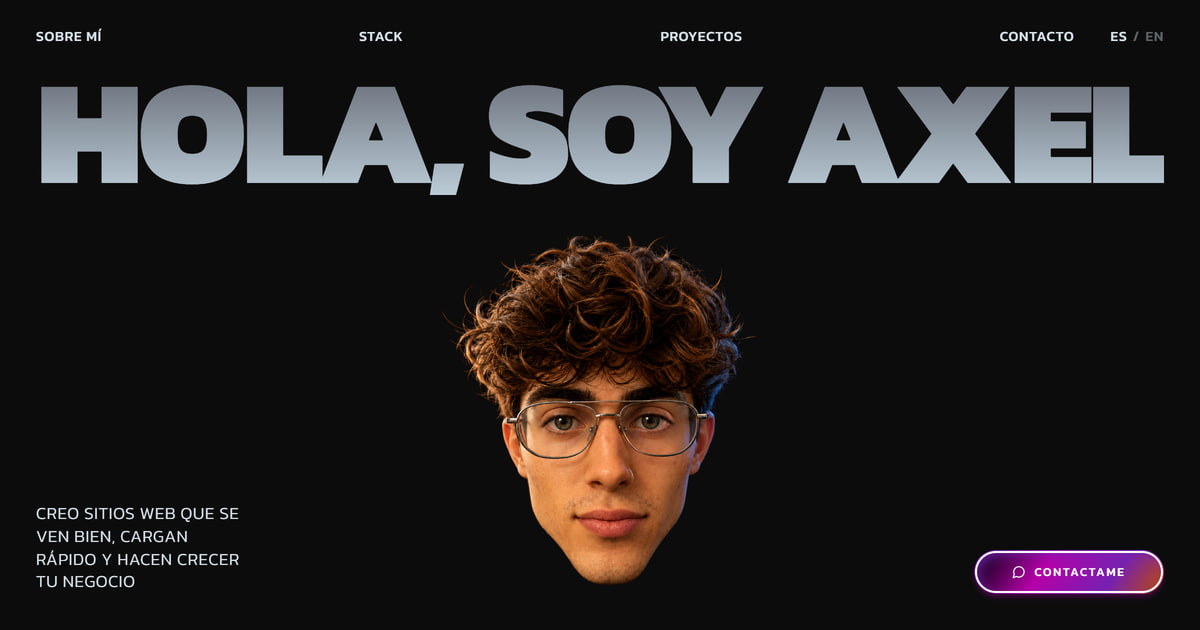
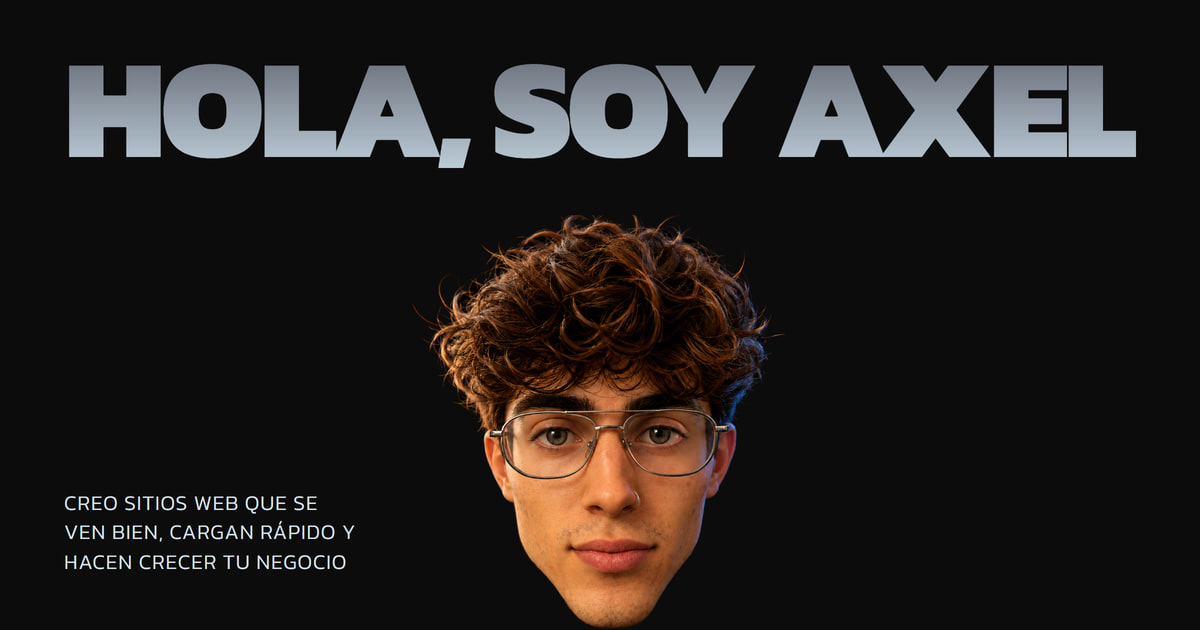
Recomponer og.jpg en apaisado en vez de recortar el hero
La preview se veia como un primer plano de la cara. El hero es vertical y el og
apaisado, asi que la version anterior recortaba y quedaba la cara sola.

Ahora make-og.js arma un lienzo aparte, inyectado sobre la pagina ya cargada para
usar la Kanit y los colores reales: titulo arriba ajustado al ancho util con el
mismo criterio que fitHeadings(), retrato al centro y tagline abajo a la izquierda.

El retrato va pegado al borde de abajo. El PNG original ya viene cortado al menton
(la ultima fila con contenido de assets/portrait-raw.png es la 1090 de 1254, no es
algo que se haya perdido al convertir), asi que anclarlo al borde hace que el corte
coincida con el del cuadro y lea como una cabeza que asoma en vez de una foto mal
recortada.

Se probaron dos composiciones contra el recorte central 1:1 que aplican WhatsApp y
LinkedIn en algunos lugares, donde solo sobrevive la banda x 285..915:

  apilado  titulo 142px a todo el ancho, retrato 378x415 centrado.
           En 1:1 se pierde el titulo pero la cara entra entera.
  lado     titulo 115px en dos lineas a la izquierda, retrato 510x560 a la derecha.
           Se ve mejor entero, pero en 1:1 parte la cara al medio.

Va la apilada: el caso principal es mandar el link por WhatsApp, donde la preview
tiende a cuadrado, y ahi media cara partida se lee como un error mientras que la
cara entera lee como un retrato intencional.

make-og.js reemplaza a make-og2.js y toma --variante, --out y --cuadrado, que
[…]

diff --git a/scripts/make-og.js b/scripts/make-og.js
@@ -1,0 +1,242 @@
+/**
+ * Genera el og.jpg (1200x630) con la composicion del hero.
+ *
+ * No es una captura del sitio recortada. El hero es vertical y el og apaisado, asi
+ * que recortarlo deja un primer plano de la cara sin titulo. Aca se recompone: se
+ * arma un lienzo aparte con la tipografia y los colores reales del sitio, que se
+ * consiguen inyectando el layout sobre la pagina ya cargada.
+ *
+ * OJO con el retrato: el PNG original ya viene cortado al menton (la ultima fila
+ * con contenido de assets/portrait-raw.png es la 1090 de 1254). No hay menton que
+ * recuperar. Por eso va pegado al borde de abajo, igual que en el sitio: asi el
+ * corte coincide con el borde del cuadro y lee como una cabeza que asoma.
+ *
+ * Dos composiciones. Importa porque LinkedIn recorta al centro en algunos lugares,
+ * y ahi solo sobrevive lo que cae dentro de los 630px centrales (x 285..915):
+ *
+ *   apilado  titulo arriba a todo el ancho, retrato al centro. Se ve mejor entero,
+ *            pero el recorte cuadrado se come el titulo.
+ *   lado     titulo a la izquierda, retrato a la derecha.
+ *
+ *   node scripts/make-og.js                          # apilado -> public/og.jpg
+ *   node scripts/make-og.js --variante=lado          # lado    -> public/og.jpg
+ *   node scripts/make-og.js --variante=lado --out=/tmp/x.jpg --cuadrado
+ *
+ * --cuadrado escribe ademas el recorte central 1:1 al lado del archivo, para ver
+ * como aguanta. Necesita el sitio en :3457.
+ */
+const puppeteer = require("puppeteer-core");
+const sharp = require("sharp");
+const path = require("path");
+
+const EDGE =
+  process.env.EDGE_PATH ||
+  "C:\\Program Files (x86)\\Microsoft\\Edge\\Application\\msedge.exe";
+const ROOT = path.resolve(__dirname, "..");
+const sleep = (ms) => new Promise((r) => setTimeout(r, ms));
+
+const arg = (n, d) => {
+  const m = process.argv.find((a) => a.startsWith(`--${n}=`));
+  return m ? m.slice(n.length + 3) : d;
+};
+const VARIANTE = arg("variante", "apilado");
+const OUT = arg("out", `${ROOT}/public/og.jpg`);
+const CUADRADO = process.argv.includes("--cuadrado");
+
+const W = 1200;
+const H = 630;
+const DPR = 2;
+
+const TITULO = "Hola, soy Axel";
+const TAGLINE =
+  "creo sitios web que se ven bien, cargan rápido y hacen crecer tu negocio";
+
+function layout({ variante, titulo, tagline, w, h }) {
+  const wrap = document.createElement("div");
+  wrap.id = "og";
+  wrap.innerHTML = `<div id="og-t" class="hero-heading"></div>
+    <img id="og-r" src="/portrait/axel-portrait.webp" alt="">
+    <p id="og-p"></p>`;
+  Object.assign(wrap.style, {
+    position: "fixed",
+    inset: "0",
+    width: w + "px",
+    height: h + "px",
+    background: "#0C0C0C",
+    zIndex: "2147483647",
+    overflow: "hidden",
+  });
+  document.body.appendChild(wrap);
+
+  const t = wrap.querySelector("#og-t");
+  const img = wrap.querySelector("#og-r");
+  const p = wrap.querySelector("#og-p");
+
+  const baseTitulo = {
+    position: "absolute",
+    fontWeight: "900",
+    textTransform: "uppercase",
+    letterSpacing: "-0.03em",
+    lineHeight: "0.86",
+  };
+  const baseTagline = {
+    position: "absolute",
+    margin: "0",
+    fontWeight: "300",
+    textTransform: "uppercase",
+    letterSpacing: "0.04em",
+    lineHeight: "1.4",
+    color: "#D7E2EA",
+  };
+  const baseImg = {
+    position: "absolute",
+    bottom: "0px", // el menton cortado coincide con el borde
+    width: "auto",
+    display: "block",
+  };
+
+  // Agranda hasta llenar el ancho util, como fitHeadings().
+  const ajustar = (el, disponible) => {
+    let size = 220;
+    el.style.fontSize = size + "px";
+    for (let i = 0; i < 6; i++) {
+      let ancho = 0;
+      for (const linea of el.children.length ? [...el.children] : [el]) {
+        const r = document.createRange();
+        r.selectNodeContents(linea);
+        ancho = Math.max(ancho, r.getBoundingClientRect().width);
+      }
+      if (!ancho) break;
+      size = size * (disponible / ancho);
+      el.style.fontSize = size.toFixed(2) + "px";
+    }
+    return size;
+  };
+
+  if (variante === "lado") {
+    // Titulo en dos lineas sobre la mitad izquierda, retrato a la derecha.
+    t.innerHTML = `<div>Hola,</div><div>soy Axel</div>`;
+    Object.assign(t.style, baseTitulo, {
+      left: "64px",
+      top: "96px",
+      width: "520px",
+      textAlign: "left",
+      whiteSpace: "nowrap",
+    });
+    ajustar(t, 520);
+
+    Object.assign(p.style, baseTagline, {
+      left: "64px",
+      bottom: "62px",
+      maxWidth: "460px",
+      fontSize: "22px",
+    });
+
+    Object.assign(img.style, baseImg, {
+      height: "560px",
+      right: "40px",
+      left: "auto",
+    });
+  } else {
+    // Titulo arriba a todo el ancho, retrato al centro.
+    t.textContent = titulo;
+    Object.assign(t.style, baseTitulo, {
+      left: "64px",
+      right: "64px",
+      top: "46px",
+      textAlign: "center",
+      whiteSpace: "nowrap",
+    });
+    ajustar(t, w - 128);
+
+    Object.assign(p.style, baseTagline, {
+      left: "64px",
+      bottom: "54px",
+      maxWidth: "300px",
+      fontSize: "21px",
+    });
+
+    Object.assign(img.style, baseImg, {
+      height: "415px",
+      left: "50%",
+      transform: "translateX(-50%)",
+    });
+  }
+
+  p.textContent = tagline;
+  return { t, img, p };
+}
+
+(async () => {
+  const browser = await puppeteer.launch({ executablePath: EDGE, headless: "new" });
+  const page = await browser.newPage();
+  await page.setViewport({ width: W, height: H, deviceScaleFactor: DPR });
+  await page.goto("http://localhost:3457/", { waitUntil: "networkidle2" });
+  await page.evaluate(() => document.fonts.ready);
+  await sleep(600);
+
+  const medido = await page.evaluate(
+    async (fn, opts) => {
+      const { t, img, p } = new Function("return " + fn)()(opts);
+      // sin esto se mide el <img> todavia sin cargar y sale ancho 0
+      if (!img.complete) {
+        await new Promise((res) => {
+          img.onload = res;
+          img.onerror = res;
+        });
+      }
+      const box = (el) => {
+        const r = el.getBoundingClientRect();
+        return {
+          x: Math.round(r.left),
+          y: Math.round(r.top),
+          w: Math.round(r.width),
+          h: Math.round(r.height),
+          r: Math.round(r.right),
+          b: Math.round(r.bottom),
+        };
+      };
+      return {
+        fontSize: Math.round(parseFloat(t.style.fontSize) * 100) / 100,
+        titulo: box(t),
+        retrato: box(img),
+        tagline: box(p),
+      };
+    },
+    layout.toString(),
+    { variante: VARIANTE, titulo: TITULO, tagline: TAGLINE, w: W, h: H },
+  );
+
+  await sleep(400);
+  const png = await page.screenshot({
+    type: "png",
+    clip: { x: 0, y: 0, width: W, height: H },
+  });
+  await browser.close();
+
+  const jpeg = { quality: 88, chromaSubsampling: "4:4:4", mozjpeg: true };
+  const out = await sharp(png).resize(W, H, { kernel: "lanczos3" }).jpeg(jpeg).toFile(OUT);
+
+  // zona que sobrevive a un recorte central 1:1
+  const seguro = { x0: (W - H) / 2, x1: (W + H) / 2 };
+  const dentro = (b) => b.x >= seguro.x0 && b.r <= seguro.x1;
+
+  console.log(`${OUT.replace(ROOT + "/", "")}  ${out.width}x${out.height}  ${(out.size / 1024).toFixed(1)} KB  [${VARIANTE}]`);
+  console.log(`  titulo   ${medido.fontSize}px  x ${medido.titulo.x}..${medido.titulo.r}  y ${medido.titulo.y}..${medido.titulo.b}`);
+  console.log(`  retrato  ${medido.retrato.w}x${medido.retrato.h}  x ${medido.retrato.x}..${medido.retrato.r}`);
+  console.log(`  tagline  x ${medido.tagline.x}..${medido.tagline.r}  y ${medido.tagline.y}..${medido.tagline.b}`);
+  console.log(`  zona segura del recorte 1:1  x ${seguro.x0}..${seguro.x1}`);
+  console.log(`    titulo  ${dentro(medido.titulo) ? "entra entero" : "SE CORTA"}`);
+  console.log(`    retrato ${dentro(medido.retrato) ? "entra entero" : "SE CORTA"}`);
+  console.log(`    tagline ${dentro(medido.tagline) ? "entra entero" : "SE CORTA"}`);
+
+  if (CUADRADO) {
+    const sq = OUT.replace(/\.jpg$/, "-1x1.jpg");
+    await sharp(png)
+      .extract({ left: seguro.x0 * DPR, top: 0, width: H * DPR, height: H * DPR })
+      .resize(H, H, { kernel: "lanczos3" })
+      .jpeg(jpeg)
+      .toFile(sq);
+    console.log(`  recorte 1:1 -> ${sq.replace(ROOT + "/", "")}`);
+  }
+})();

diff --git a/scripts/README.md b/scripts/README.md
@@ -84,6 +84,7 @@ Estos sólo necesitan `:3457`.
 | `regen-portrait.js` | Rehace `public/portrait/axel-portrait.webp` desde los masters de `assets/`. |
 | `convert-images.js` | Rehace las 8 capturas de `public/projects/` desde `assets/projects/*.png` y baja las 4 decorativas. |
 | `portrait-analysis.js` | PSNR y SSIM del retrato contra `assets/portrait-raw.png`. El SSIM está implementado a mano (gaussiano 11×11, sigma 1,5). |
+| `make-og.js` | Rehace `public/og.jpg` a 1200×630. No recorta el sitio: recompone el hero en apaisado (título arriba, retrato al centro pegado abajo, tagline abajo a la izquierda) inyectando el layout sobre la página ya cargada, para usar la tipografía y los colores reales. Necesita el sitio en `:3457`. |
 
 Los dos primeros reproducen los archivos commiteados **byte a byte**; los parámetros y
 el porqué están en [`assets/README.md`](../assets/README.md).
